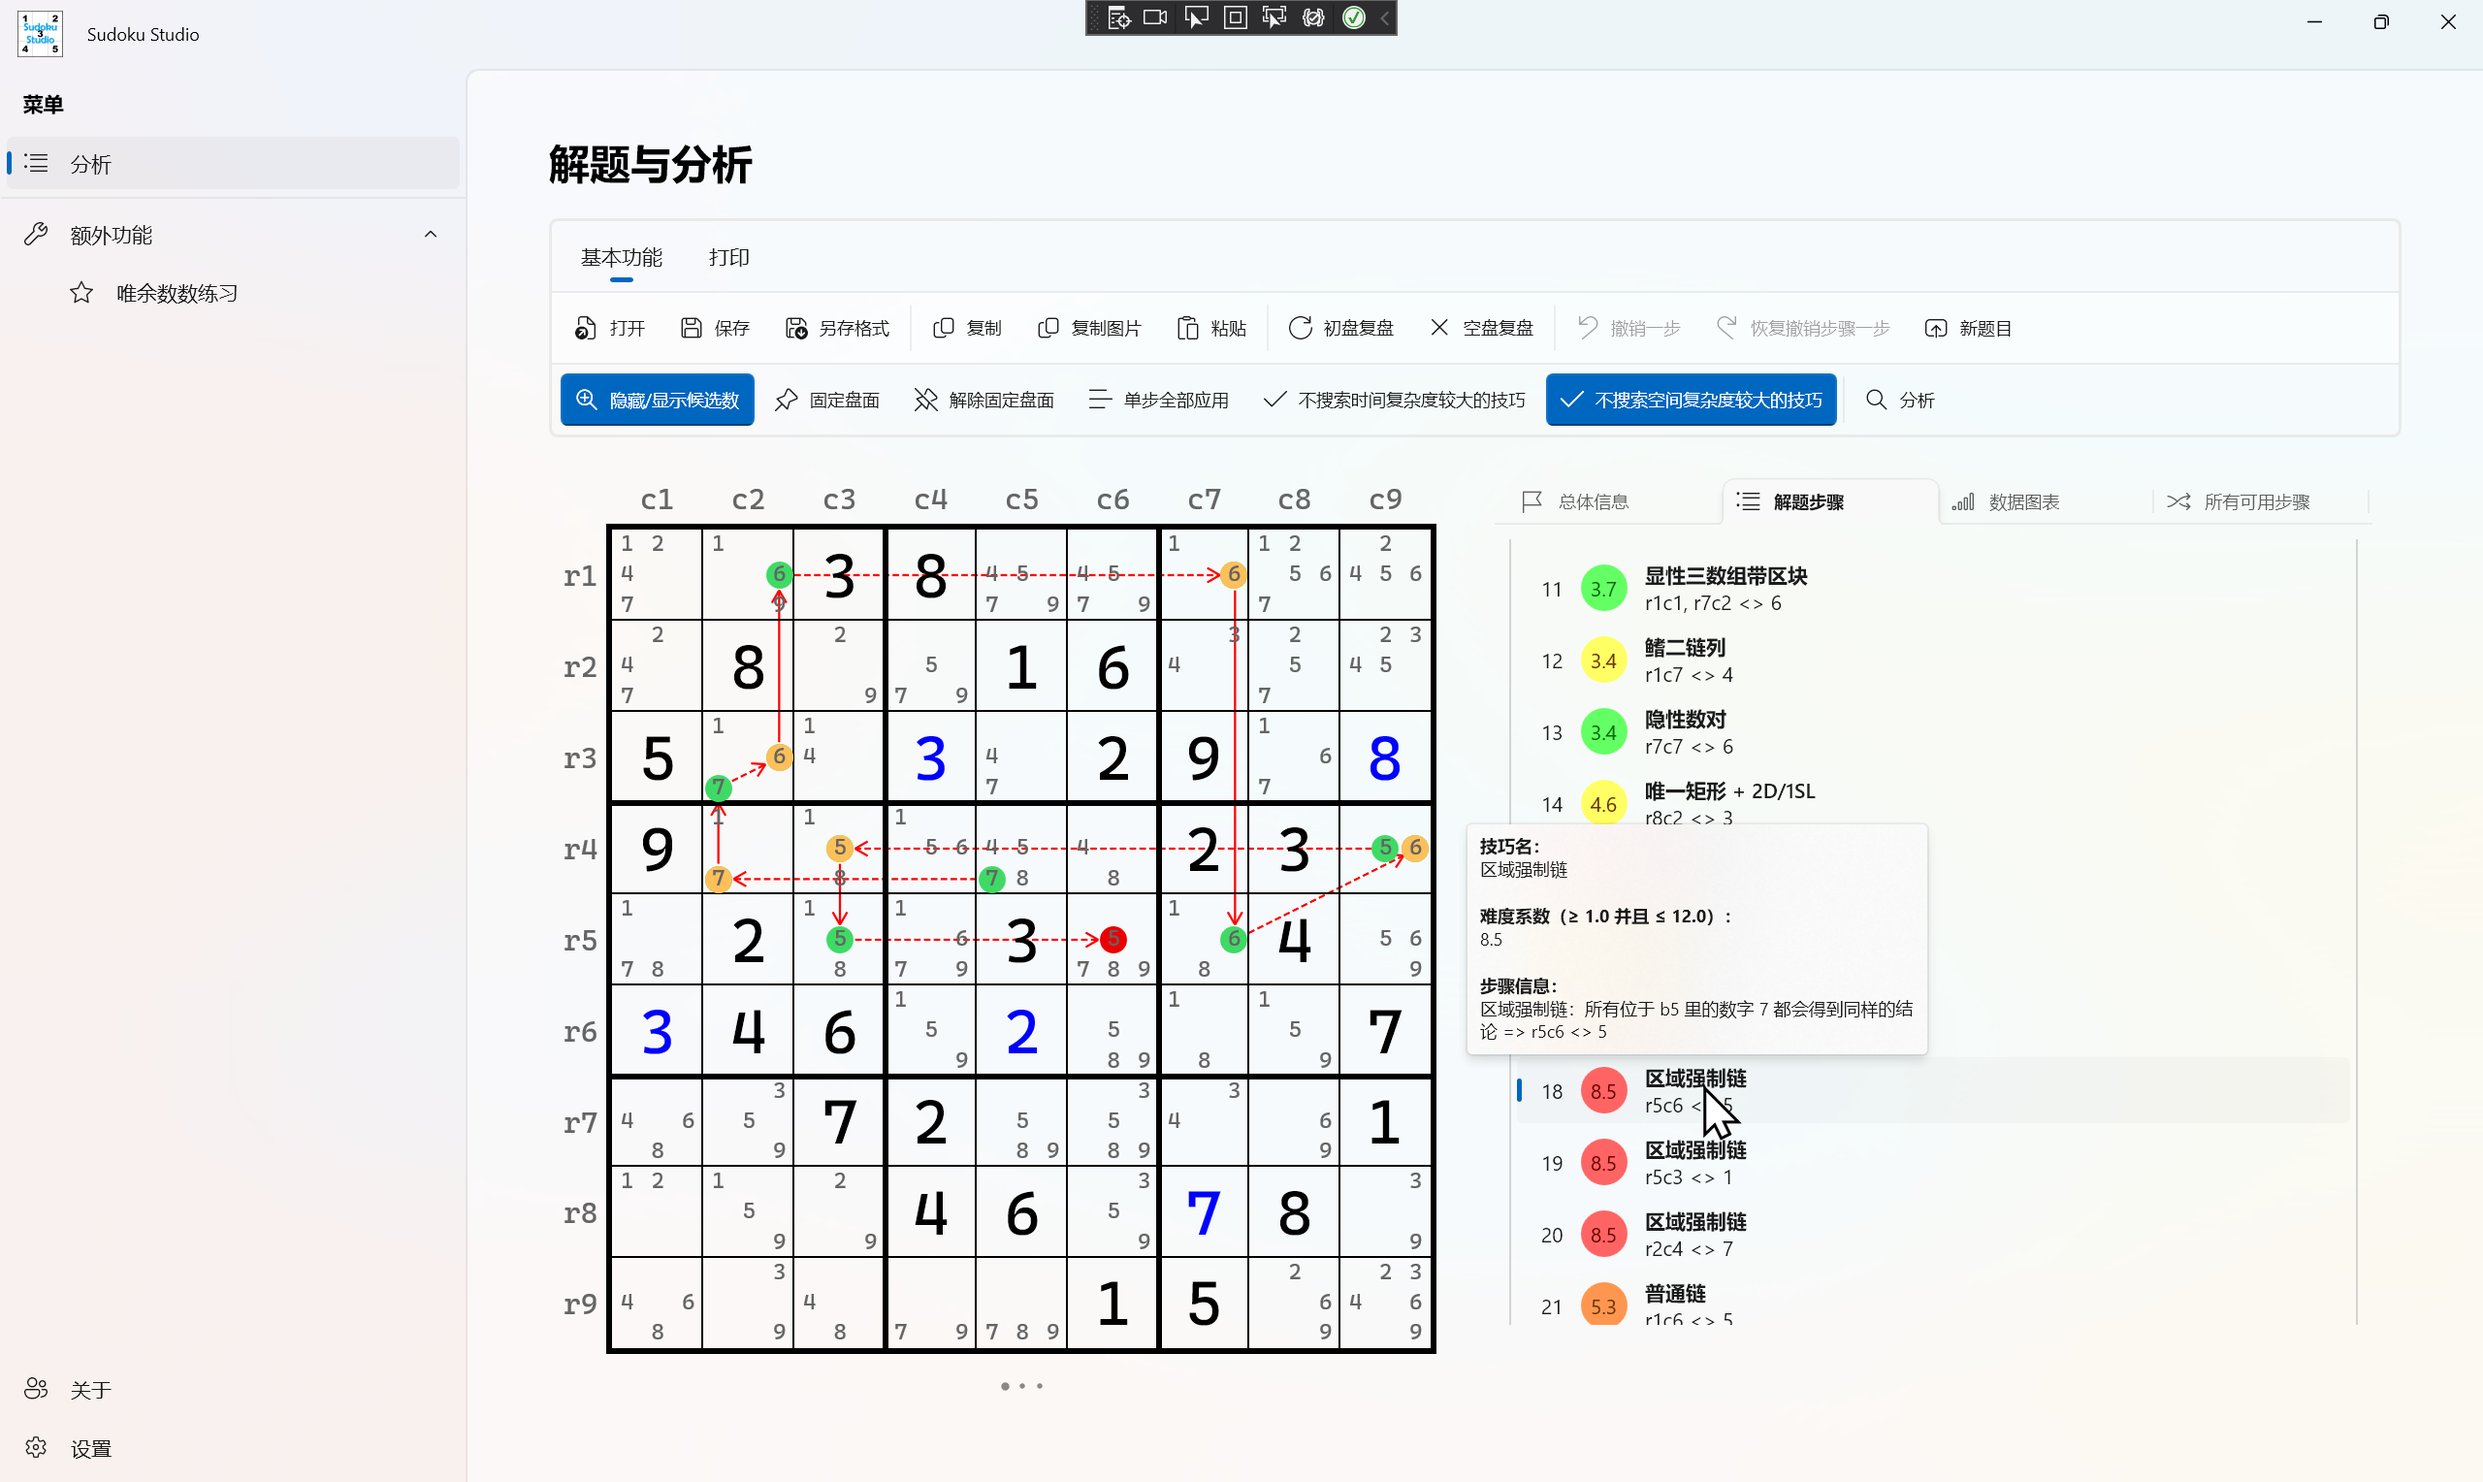
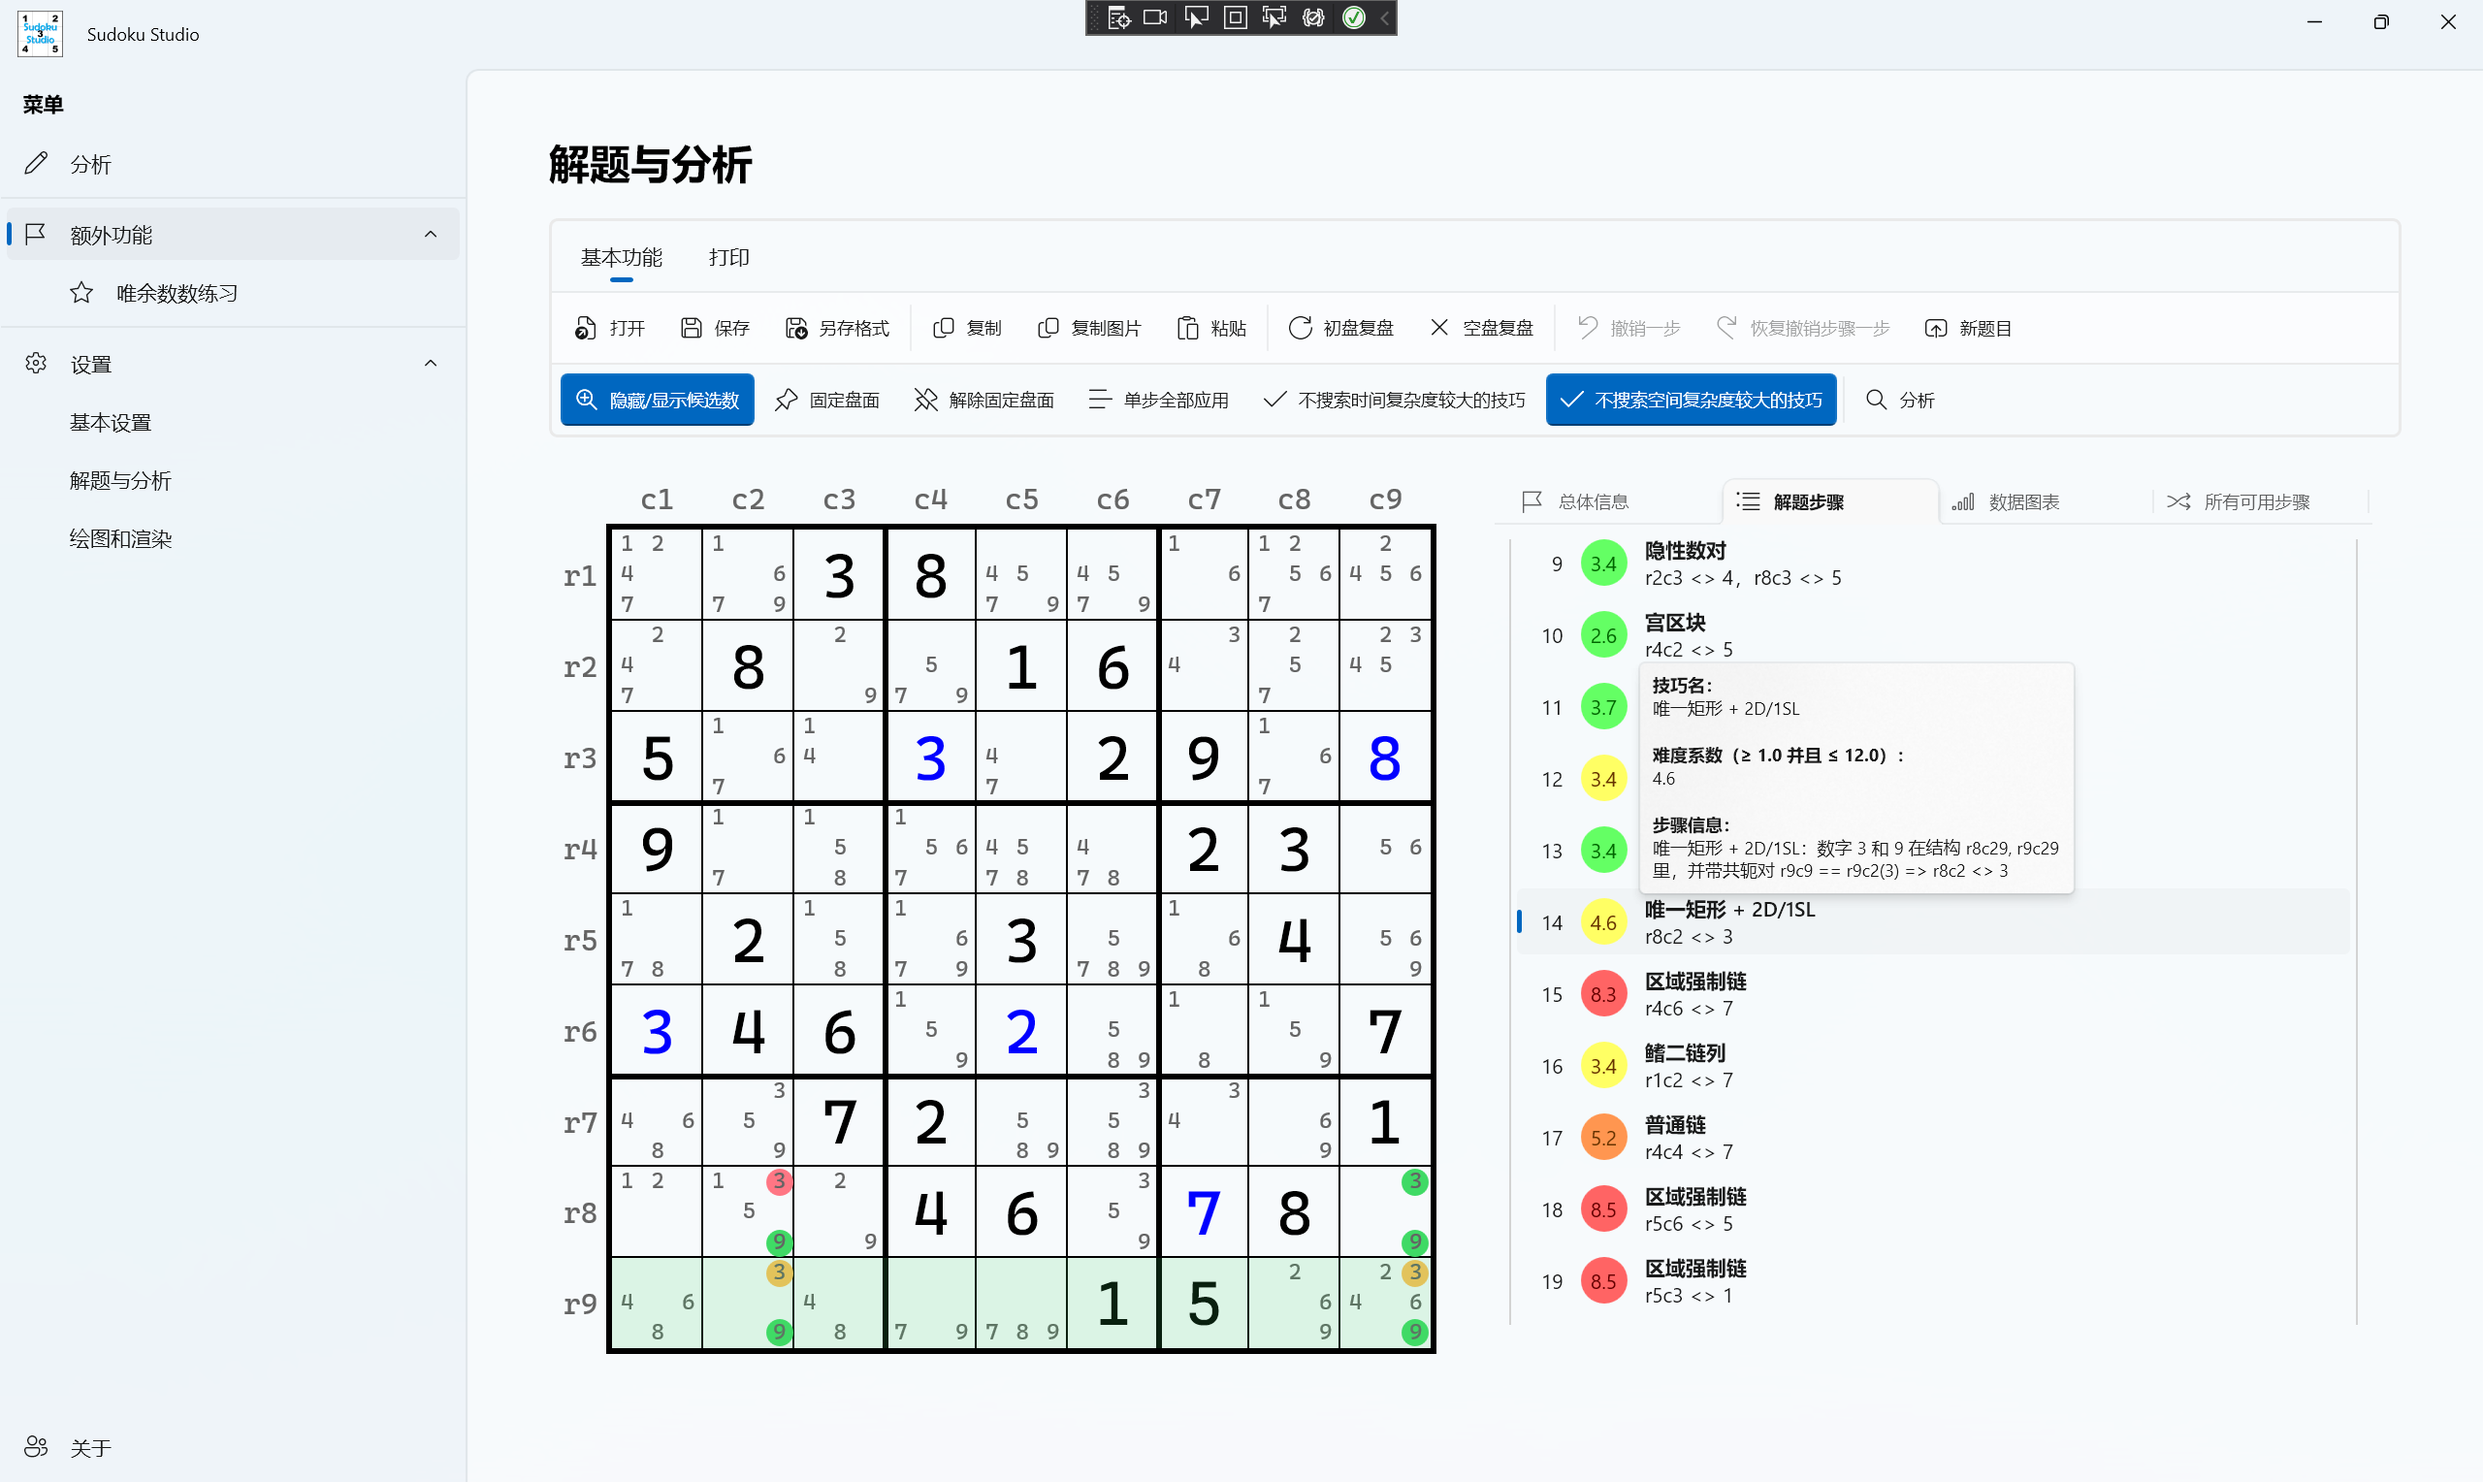
Update view.

diff --git a/src/SudokuStudio/SudokuStudio/Views/Windows/MainWindow.xaml b/src/SudokuStudio/SudokuStudio/Views/Windows/MainWindow.xaml
@@ -48,9 +48,9 @@
 			AlwaysShowHeader="True" PaneTitle="{m:R Key=MainWindow_Menu}"
 			Loaded="NavigationView_Loaded" SelectionChanged="MainNavigationView_SelectionChanged" ItemInvoked="NavigationView_ItemInvoked">
 			<NavigationView.MenuItems>
-				<NavigationViewItem x:Name="AnalyzePageItem" Content="{m:R Key=MainWindow_Analyze}" Icon="ShowResults" />
+				<NavigationViewItem x:Name="AnalyzePageItem" Content="{m:R Key=MainWindow_Analyze}" Icon="Edit" />
 				<NavigationViewItemSeparator />
-				<NavigationViewItem Icon="Repair" Content="{m:R Key=MainWindow_ExtraFunctions}">
+				<NavigationViewItem Icon="Flag" Content="{m:R Key=MainWindow_ExtraFunctions}">
 					<NavigationViewItem.MenuItems>
 						<NavigationViewItem x:Name="SingleCountingPageItem" Icon="OutlineStar" Content="{m:R Key=MainWindow_SingleCountingPracticing}" />
 					</NavigationViewItem.MenuItems>
